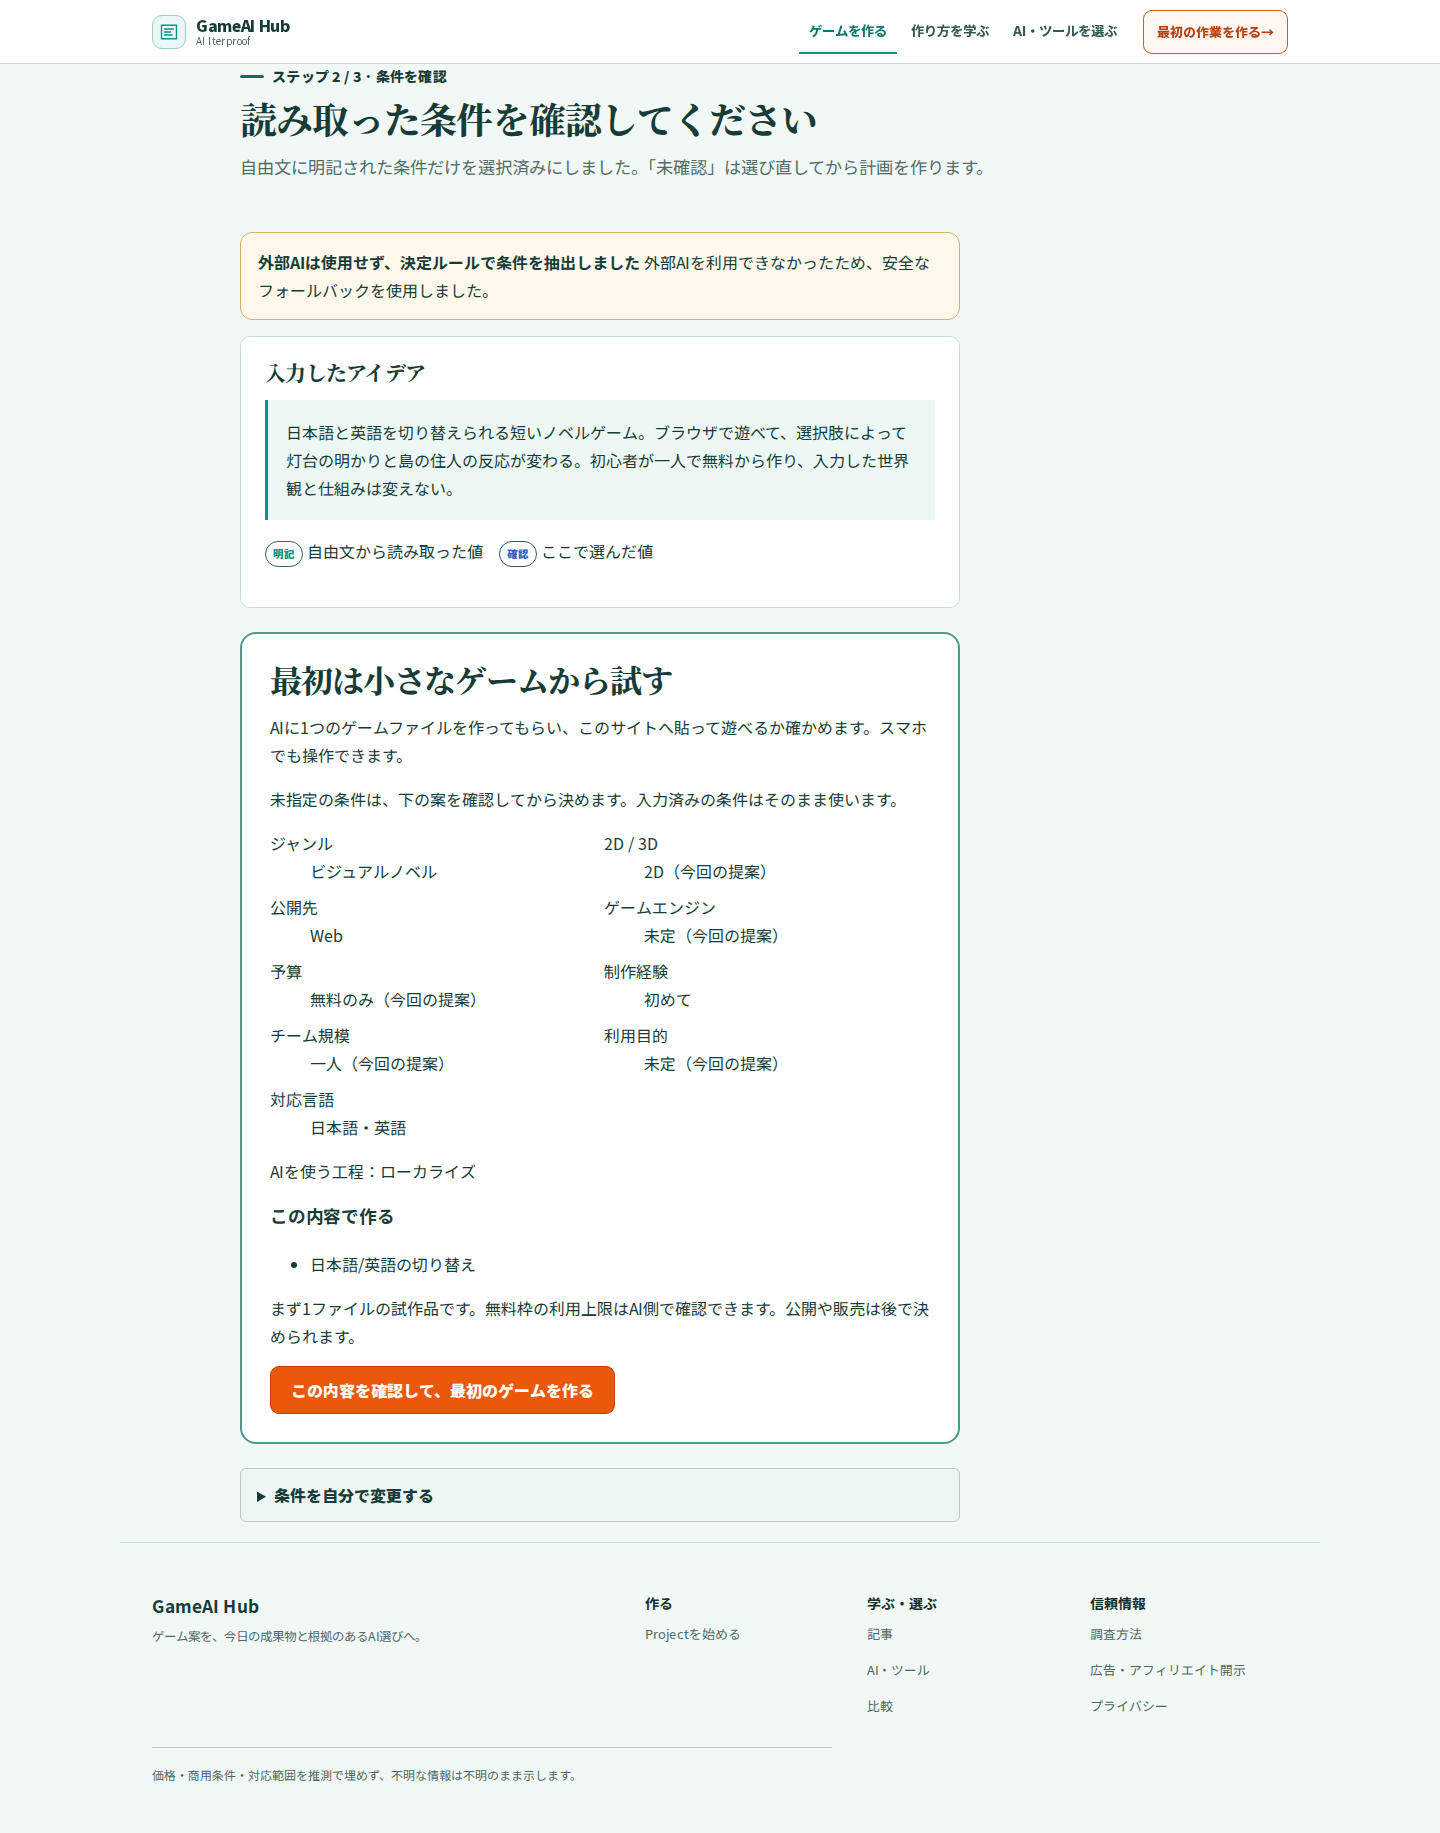
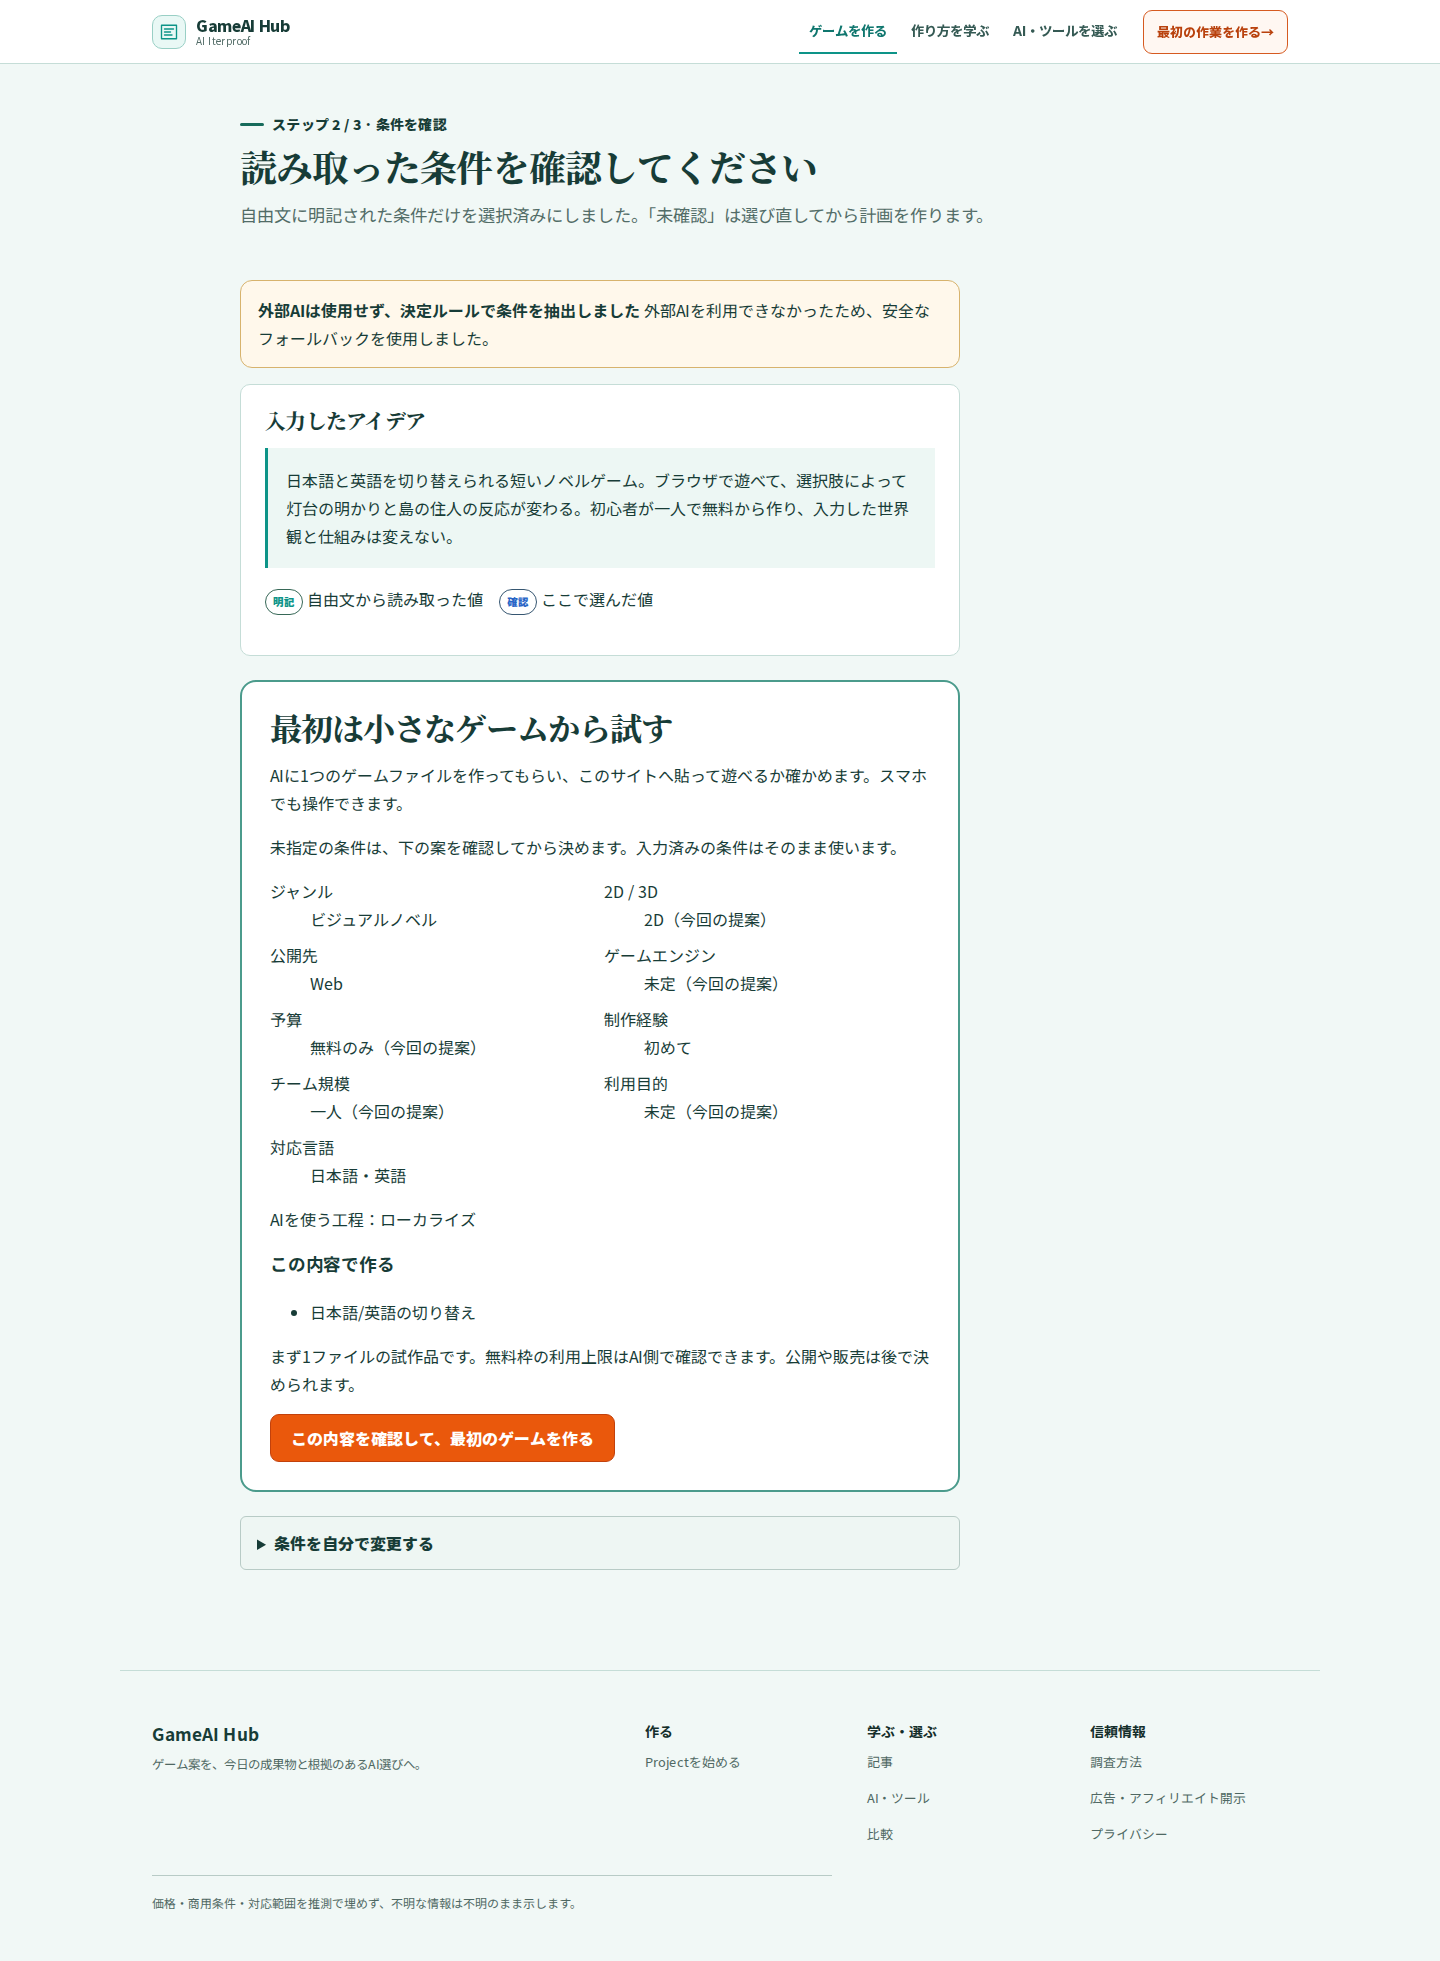
fix: address Slice 4 independent review findings

diff --git a/app/globals.css b/app/globals.css
@@ -441,7 +441,7 @@ article.page-shell .stage-decision>summary strong{
 @media(max-width:340px){main{padding-inline:8px}.site-header{position:static}.header-inner{height:42px;min-height:42px!important;padding-inline:4px}.brand-mark{width:26px;height:26px}.brand-mark svg{width:17px}.menu-button{width:30px;height:30px;min-width:30px;min-height:30px}.menu-button svg{width:17px}.article-shell>.breadcrumbs{white-space:normal;overflow:visible;line-height:1.4}.article-shell>.breadcrumbs span:last-child{display:none}.article-related a{padding:7px}.article-related a strong{overflow-wrap:anywhere}.article-shell>.sources li{display:block}.article-shell>.sources li span{display:block;margin-top:4px}.article-project-cta{padding:12px 7px!important;margin-inline:0}.article-project-cta .button{width:100%;padding-inline:6px}.article-record{margin-bottom:18px}.article-record p{overflow-wrap:anywhere}}
 
 /* Issue #137 Slice 4: stable Project stages and task-first form/result hierarchy. */
-.project-start-page,.project-clarify,.project-result,.project-state{max-width:var(--content-max);padding-block:var(--space-7) var(--section)}
+.project-start-page,.project-clarify,.project-result,.project-state{max-width:var(--content-max);padding-block:var(--space-7) var(--section-block)}
 .project-start-page .builder-head,.project-clarify .builder-head,.project-result-top{padding:0 0 var(--space-6)}
 .project-start-page .builder-head h1,.project-clarify .builder-head h1,.project-result-top>h1{max-width:18em;margin-block:var(--space-2) var(--space-3);font-size:var(--type-h1);line-height:1.18;letter-spacing:-.025em;text-wrap:balance;overflow-wrap:anywhere}
 .project-stage-label{display:flex;align-items:center;gap:var(--space-2);margin:0;color:var(--color-accent-strong);font-size:var(--type-small);font-weight:850;letter-spacing:.02em}
@@ -468,15 +468,10 @@ article.page-shell .stage-decision>summary strong{
 .project-result-top{max-width:var(--content-max)}
 .project-result-top .result-intro{max-width:44rem;color:var(--color-text-muted);font-size:var(--type-body-lg)}
 .project-result-top>.build-checklist{margin-top:var(--space-6)}
-.build-checklist{display:flex;min-width:0;flex-direction:column}
-.build-progress{order:0;padding:var(--space-4);border:1px solid var(--color-border);border-radius:var(--radius-sm);background:var(--color-surface-subtle)}
-.beginner-action,.beginner-finished{order:1}
-.action-list{order:2;display:grid;gap:var(--space-3)}
-.checklist-heading{order:2;margin-top:var(--space-7)}
-.checklist-heading+.section-intro{order:2}
-.artifact-progress{order:3}
-.today-queue{order:4}
-.build-roadmap{order:5}
+.build-checklist{min-width:0}
+.build-progress{padding:var(--space-4);border:1px solid var(--color-border);border-radius:var(--radius-sm);background:var(--color-surface-subtle)}
+.action-list{display:grid;gap:var(--space-3)}
+.checklist-heading{margin-top:var(--space-7)}
 .action-step{min-width:0}.action-step.is-current{border:2px solid var(--color-accent);box-shadow:0 8px 28px rgba(20,89,78,.1)}
 .action-step.is-current>summary{background:var(--color-accent-soft)}
 .action-step>summary,.action-detail,.action-prompt,.action-prompt pre,.stuck-panel,.stuck-panel pre,.contextual-task-tool,.generation-prompt{min-width:0;max-width:100%;overflow-wrap:anywhere}
@@ -485,6 +480,7 @@ article.page-shell .stage-decision>summary strong{
 .completion-control{min-height:52px}
 .stuck-panel{border:2px solid var(--color-warning);background:var(--color-warning-soft)}
 .artifact-progress,.today-queue,.build-roadmap{margin-top:var(--space-7);padding-top:var(--space-5);border-top:1px solid var(--color-border)}
+.build-roadmap>summary{display:grid;min-height:48px;cursor:pointer}.build-roadmap>summary h2{margin:var(--space-1) 0}.build-roadmap>summary p{margin:0;color:var(--color-text-muted)}
 .today-grid article:not(.is-primary){background:var(--color-surface-subtle)}
 .project-supporting-details,.result-utilities,.secondary-plan{max-width:var(--content-max);margin-block:var(--space-5);border:1px solid var(--color-border);border-radius:var(--radius-sm);background:var(--color-surface)}
 .project-supporting-details>summary,.result-utilities>summary,.secondary-plan>summary{display:flex;min-height:48px;align-items:center;justify-content:space-between;gap:var(--space-3);padding:var(--space-3) var(--space-4);cursor:pointer;font-weight:850}

diff --git a/e2e/slice-four-project.spec.ts b/e2e/slice-four-project.spec.ts
@@ -1,4 +1,4 @@
-import { mkdir, writeFile } from "node:fs/promises";
+import { mkdir, readFile, writeFile } from "node:fs/promises";
 import path from "node:path";
 import { expect, test } from "./fixtures";
 import {
@@ -172,7 +172,9 @@ test("generated current task, recovery, completion, and local restore stay task-
 
   await page.setViewportSize({ width: 390, height: 844 });
   await page.getByRole("button", { name: "ここで詰まった" }).click();
-  await expect(page.getByRole("heading", { name: "AIへ渡すトラブル相談" })).toBeVisible();
+  const recoveryHeading = page.getByRole("heading", { name: "AIへ渡すトラブル相談" });
+  await expect(recoveryHeading).toBeVisible();
+  await expect(recoveryHeading).toBeFocused();
   await page.getByLabel("困っていること・表示されたエラー").fill(
     "VeryLongRuntimeErrorTokenWithoutBreaks_".repeat(15),
   );
@@ -181,6 +183,54 @@ test("generated current task, recovery, completion, and local restore stay task-
     path: path.join(evidenceDir, "recovery-mobile-390.png"),
     fullPage: true,
   });
+
+  const manifestPath = path.join(evidenceDir, "manifest.json");
+  const manifest = JSON.parse(await readFile(manifestPath, "utf8")) as {
+    target: { sha: string };
+    records: EvidenceRecord[];
+  };
+  manifest.target.sha = process.env.EVIDENCE_SHA ?? "68a15e5";
+  for (const viewport of acceptanceViewports) {
+    manifest.records.push({
+      id: `project-current-task-${viewport.id}`,
+      route: "/project/",
+      viewport,
+      zoom: { mode: "none", factor: 1 },
+      emulation: { viewport: true, physicalDevice: false },
+      state: ["generated", "current-task", "local-progress", "ga4-collector-blocked"],
+      screenshot: `current-task-${viewport.id}.png`,
+      diagnostics: {
+        documentOverflowPx: 0,
+        ownedLocalScrollers: 0,
+        unownedOverflowingElements: 0,
+      },
+      provenance: {
+        capturedAt: new Date().toISOString(),
+        runner: "Playwright Chromium viewport emulation",
+        note: "Responsive evidence only; not physical-device or soft-keyboard evidence.",
+      },
+    });
+  }
+  manifest.records.push({
+    id: "project-recovery-mobile-390",
+    route: "/project/",
+    viewport: { width: 390, height: 844 },
+    zoom: { mode: "none", factor: 1 },
+    emulation: { viewport: true, physicalDevice: false },
+    state: ["blocked-recovery", "long-runtime-error", "ga4-collector-blocked"],
+    screenshot: "recovery-mobile-390.png",
+    diagnostics: {
+      documentOverflowPx: 0,
+      ownedLocalScrollers: 0,
+      unownedOverflowingElements: 0,
+    },
+    provenance: {
+      capturedAt: new Date().toISOString(),
+      runner: "Playwright Chromium viewport emulation",
+      note: "Responsive evidence only; not physical-device or soft-keyboard evidence.",
+    },
+  });
+  await writeFile(manifestPath, `${JSON.stringify(manifest, null, 2)}\n`);
 
   await page.getByRole("button", { name: "完了条件を確認して「できた」へ" }).click();
   const current = page.locator(".action-step.is-current");

diff --git a/components/ProjectGeneratorClient.tsx b/components/ProjectGeneratorClient.tsx
@@ -1533,6 +1533,12 @@ export function BuildChecklist({
   const viewedTasks = useRef(new Set<string>());
   const completedEvents = useRef(new Set<string>());
   const reachedSecond = useRef(false);
+  const recoveryHeading = useRef<HTMLHeadingElement>(null);
+  useEffect(() => {
+    if (!stuckFor) return;
+    recoveryHeading.current?.focus();
+    recoveryHeading.current?.scrollIntoView?.({ block: "nearest" });
+  }, [stuckFor]);
   const copyHere = async (content: string, id: string) => {
     const copied = await onCopy(content, id);
     setCopyNotice({
@@ -1906,7 +1912,9 @@ export function BuildChecklist({
               className="stuck-panel"
               aria-live="polite"
             >
-              <h3>AIへ渡すトラブル相談</h3>
+              <h3 ref={recoveryHeading} tabIndex={-1}>
+                AIへ渡すトラブル相談
+              </h3>
               {helpTool && (
                 <BeginnerToolLink tool={helpTool} taskId={active.id} />
               )}
@@ -2092,17 +2100,16 @@ export function BuildChecklist({
           </p>
         )}
       </section>
-      <section
+      <details
         className="build-roadmap"
-        aria-labelledby="roadmap-overview-title"
       >
-        <div>
+        <summary>
           <span>成果物でつながる制作順</span>
           <h2 id="roadmap-overview-title">Build Roadmap</h2>
           <p>
             下のQuestと同じ順番です。各工程の成果物が、次工程の開始条件になります。
           </p>
-        </div>
+        </summary>
         <ol>
           {steps.map((item, index) => {
             const done = completed.has(item.id);
@@ -2134,7 +2141,7 @@ export function BuildChecklist({
             );
           })}
         </ol>
-      </section>
+      </details>
       <h2 className="checklist-heading">Build Quest</h2>
       <p className="section-intro">
         各Questは必要なときだけ開きます。AI候補、具体的操作、Prompt、完了条件が一つにつながっています。
